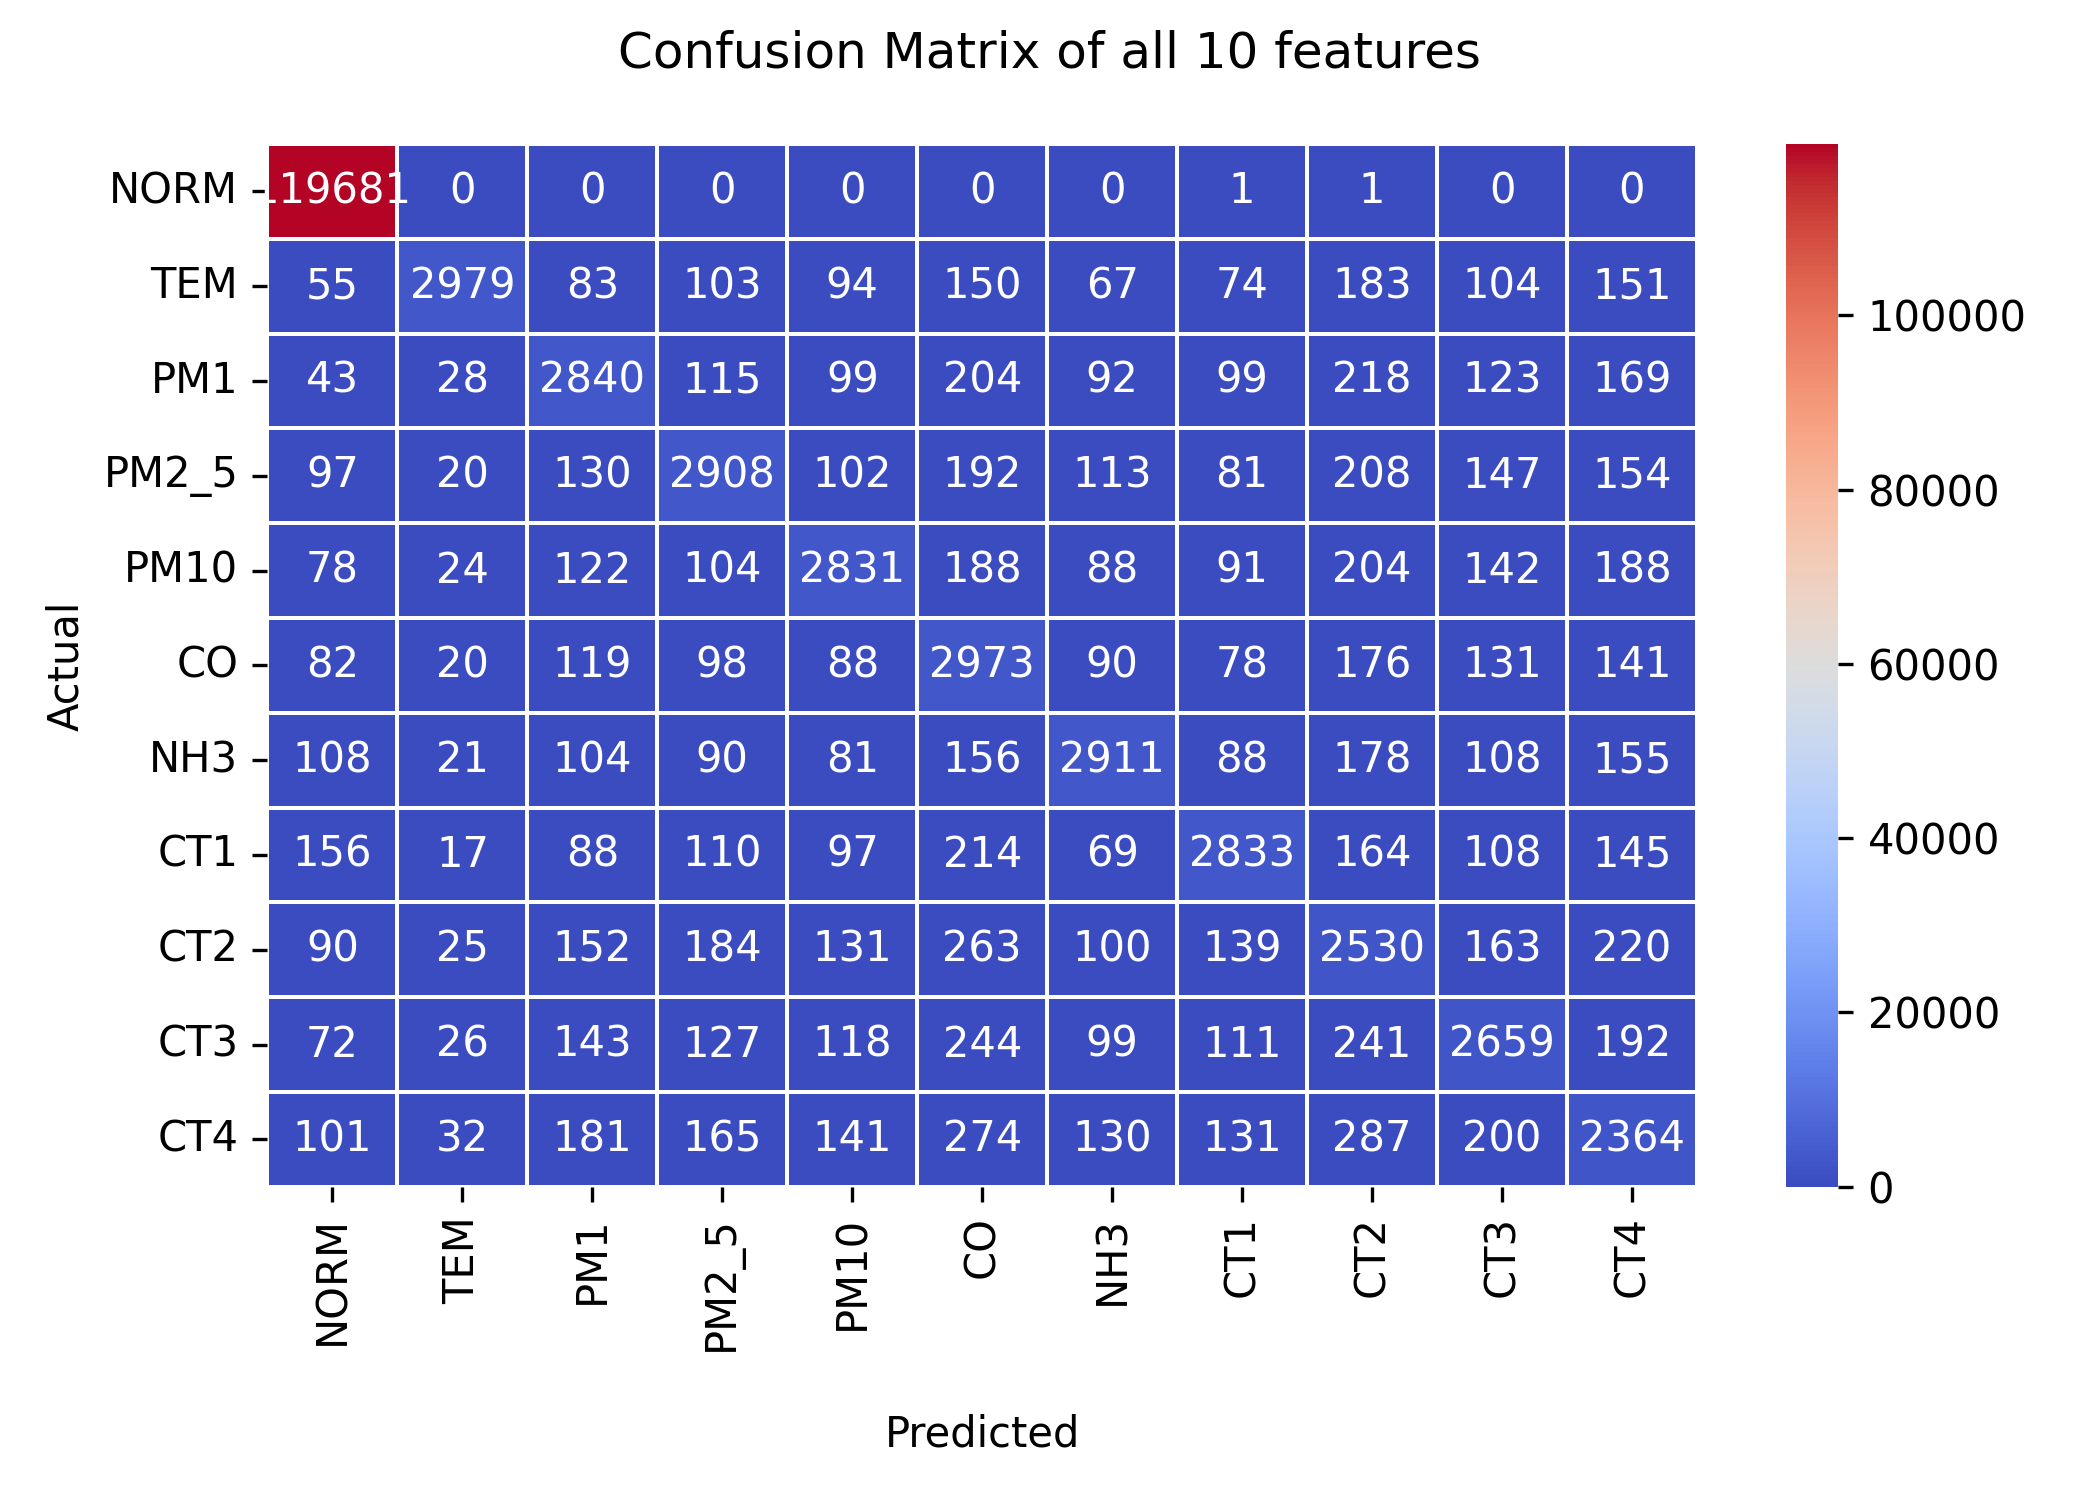
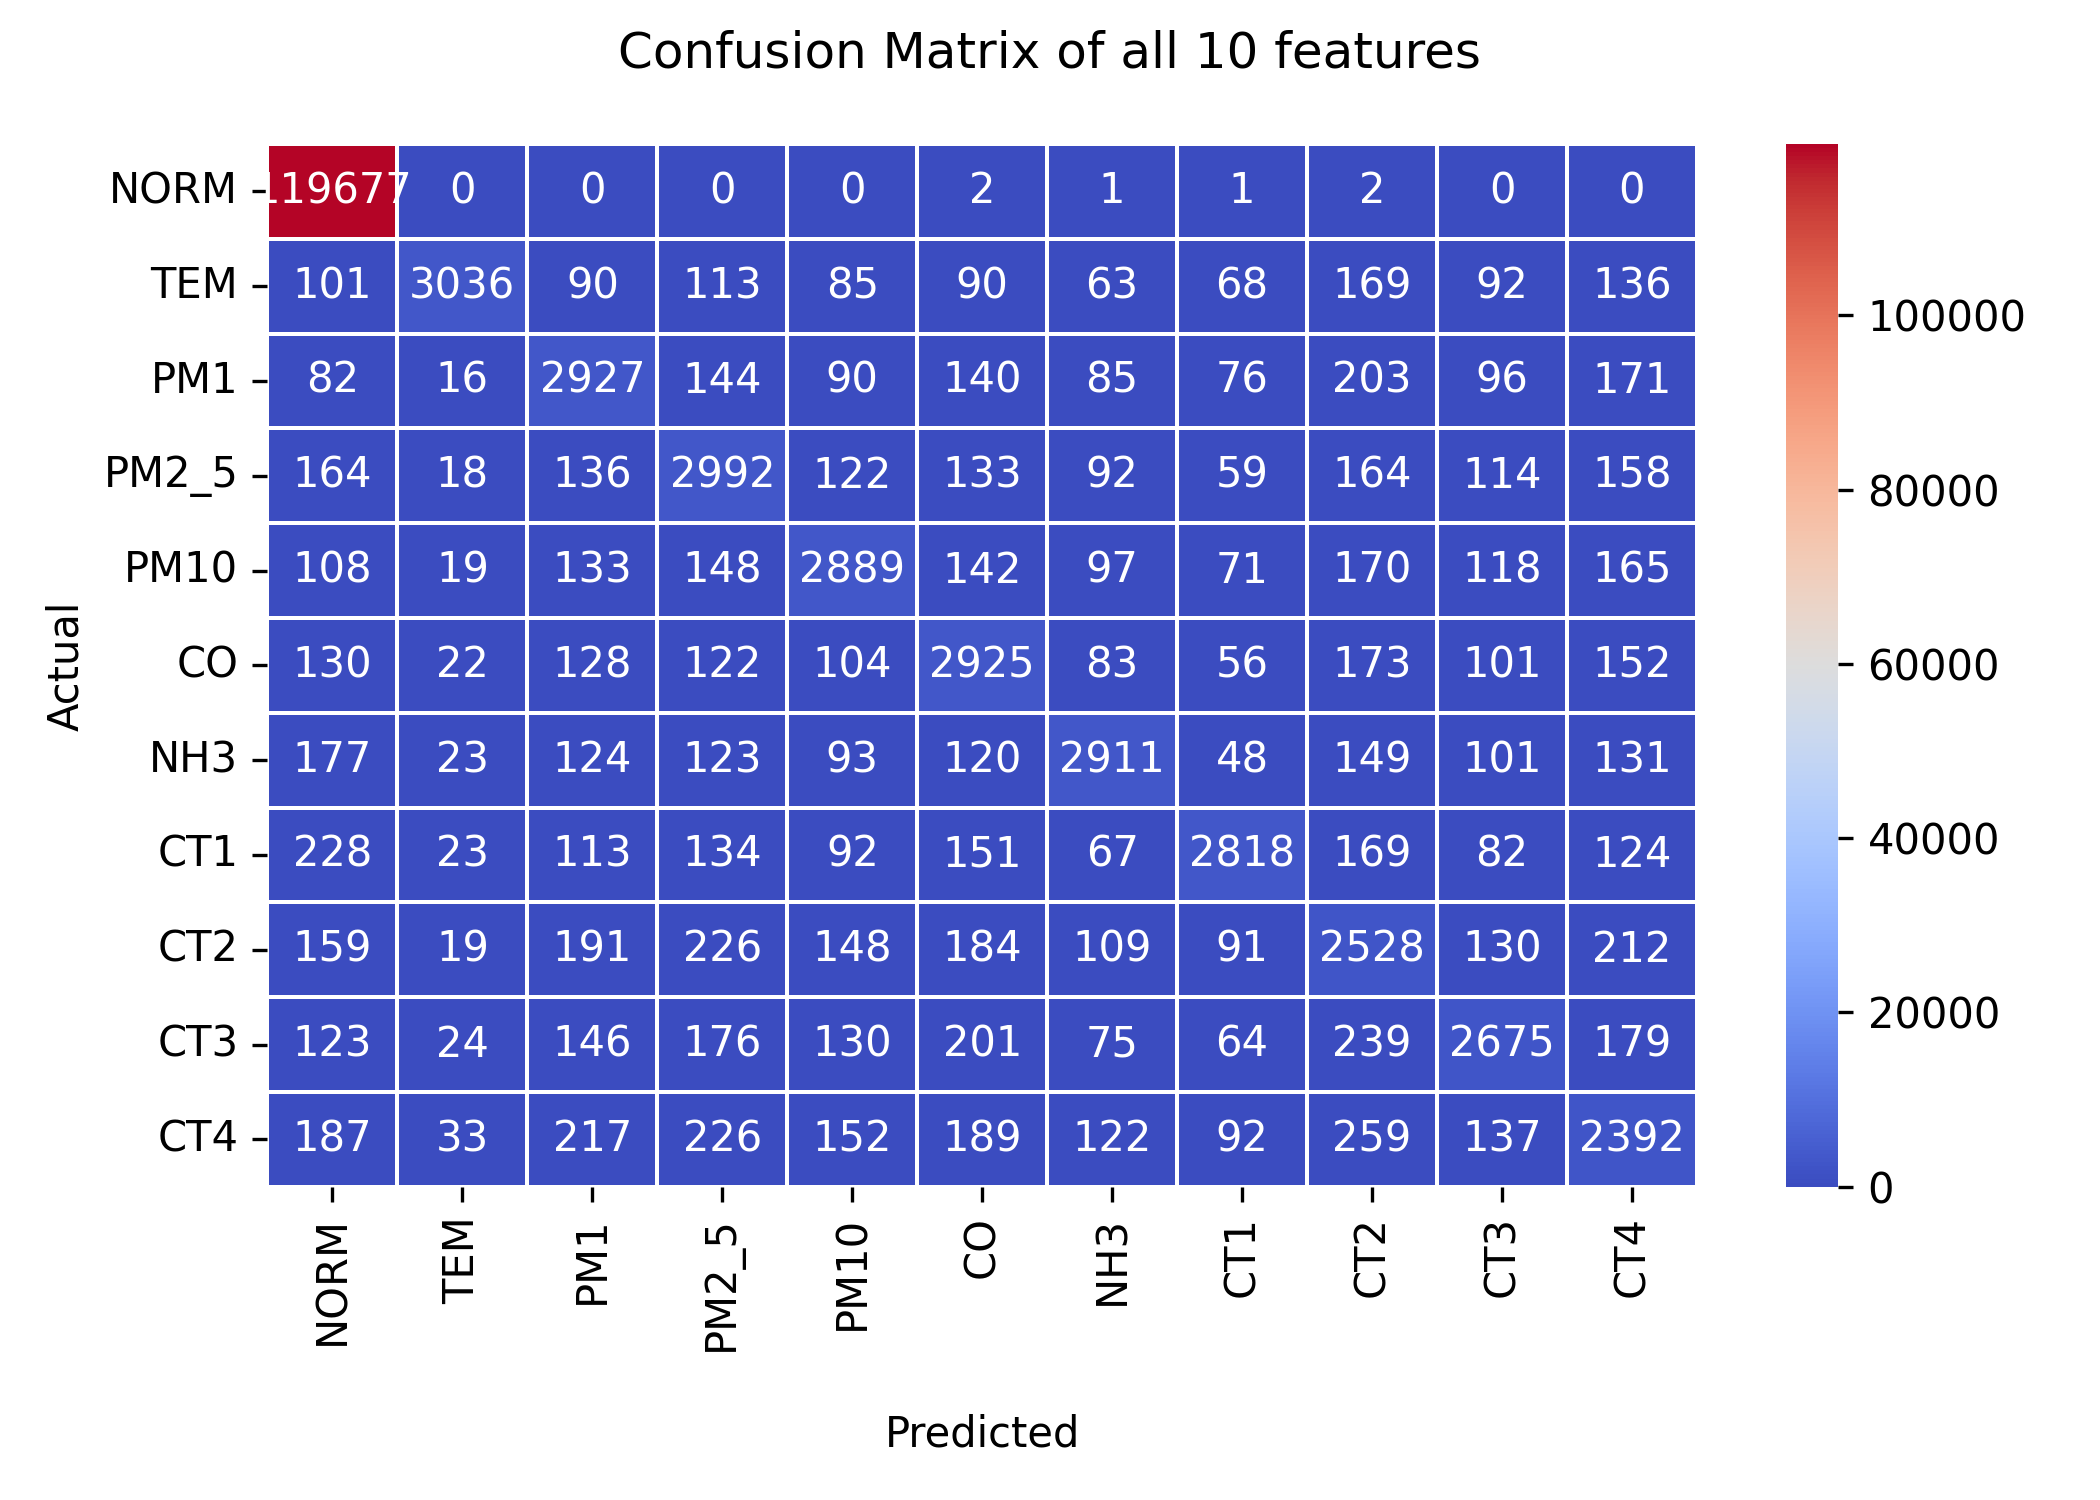
n_neighbors config updated

diff --git a/ohtconf.py b/ohtconf.py
@@ -206,7 +206,7 @@ SCATTER_INCLUDE = True  # flag for scatter chart generation
 MIX_INCLUDE = False  # flag for mixed data charting
 
 # KNN
-N_NEIGHBORS = range(2, 9)  # note: best 5 in (1,20)
+N_NEIGHBORS = range(2, 12)  # time issue when extend
 TRAIN_SIZE = 800_000
 
 # etc
